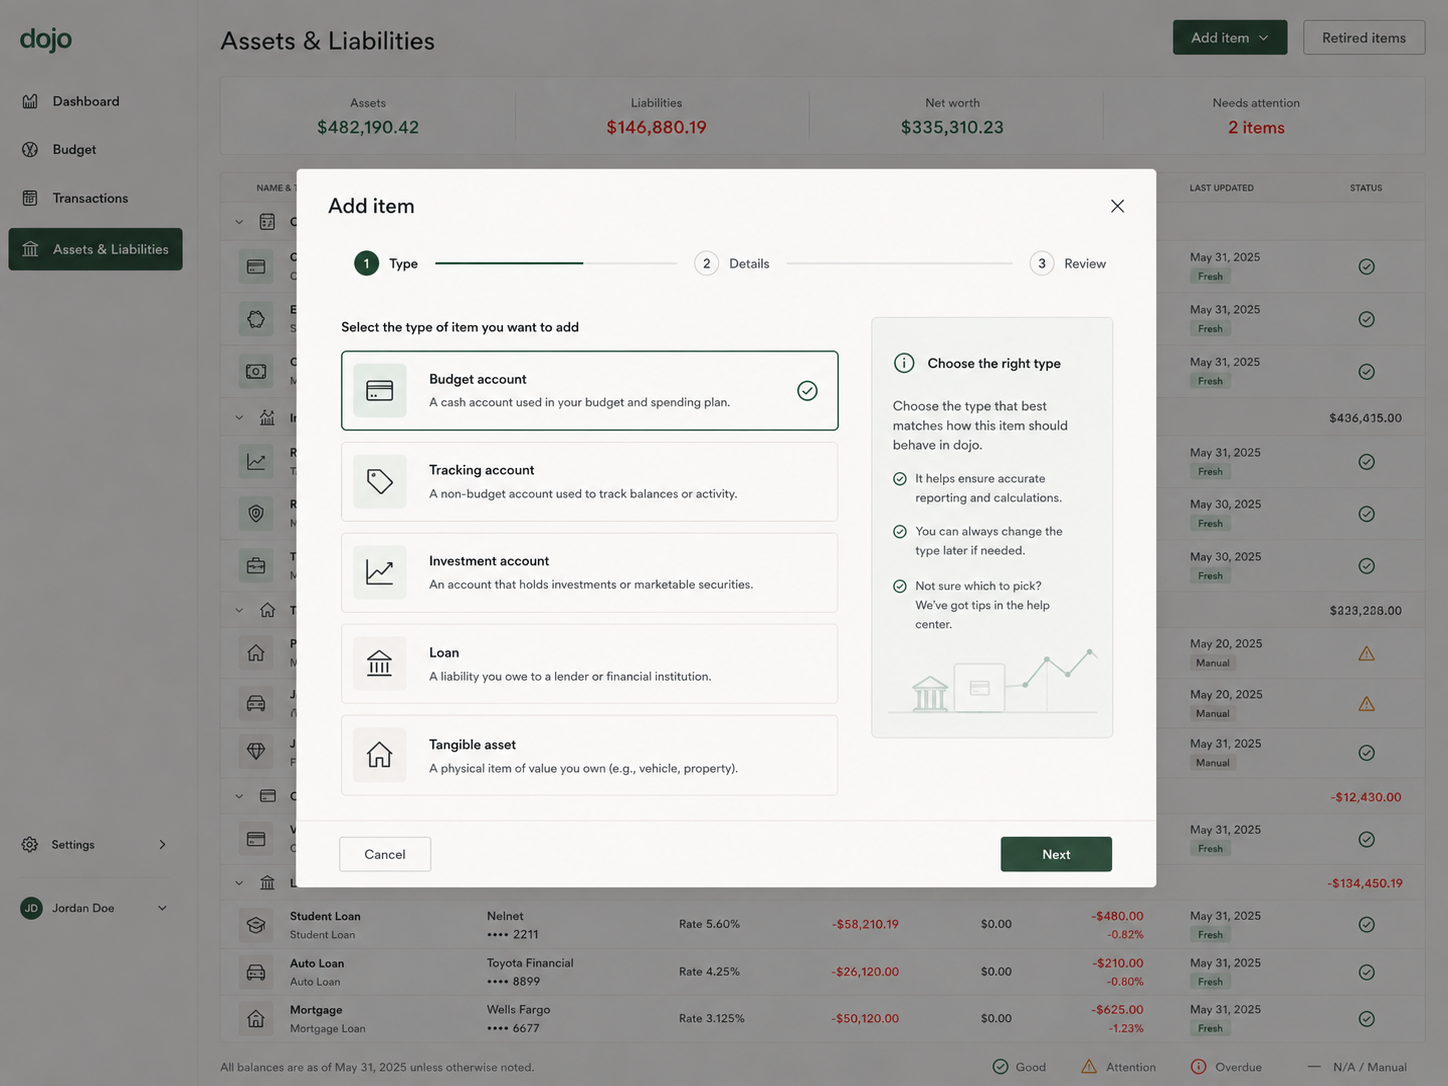
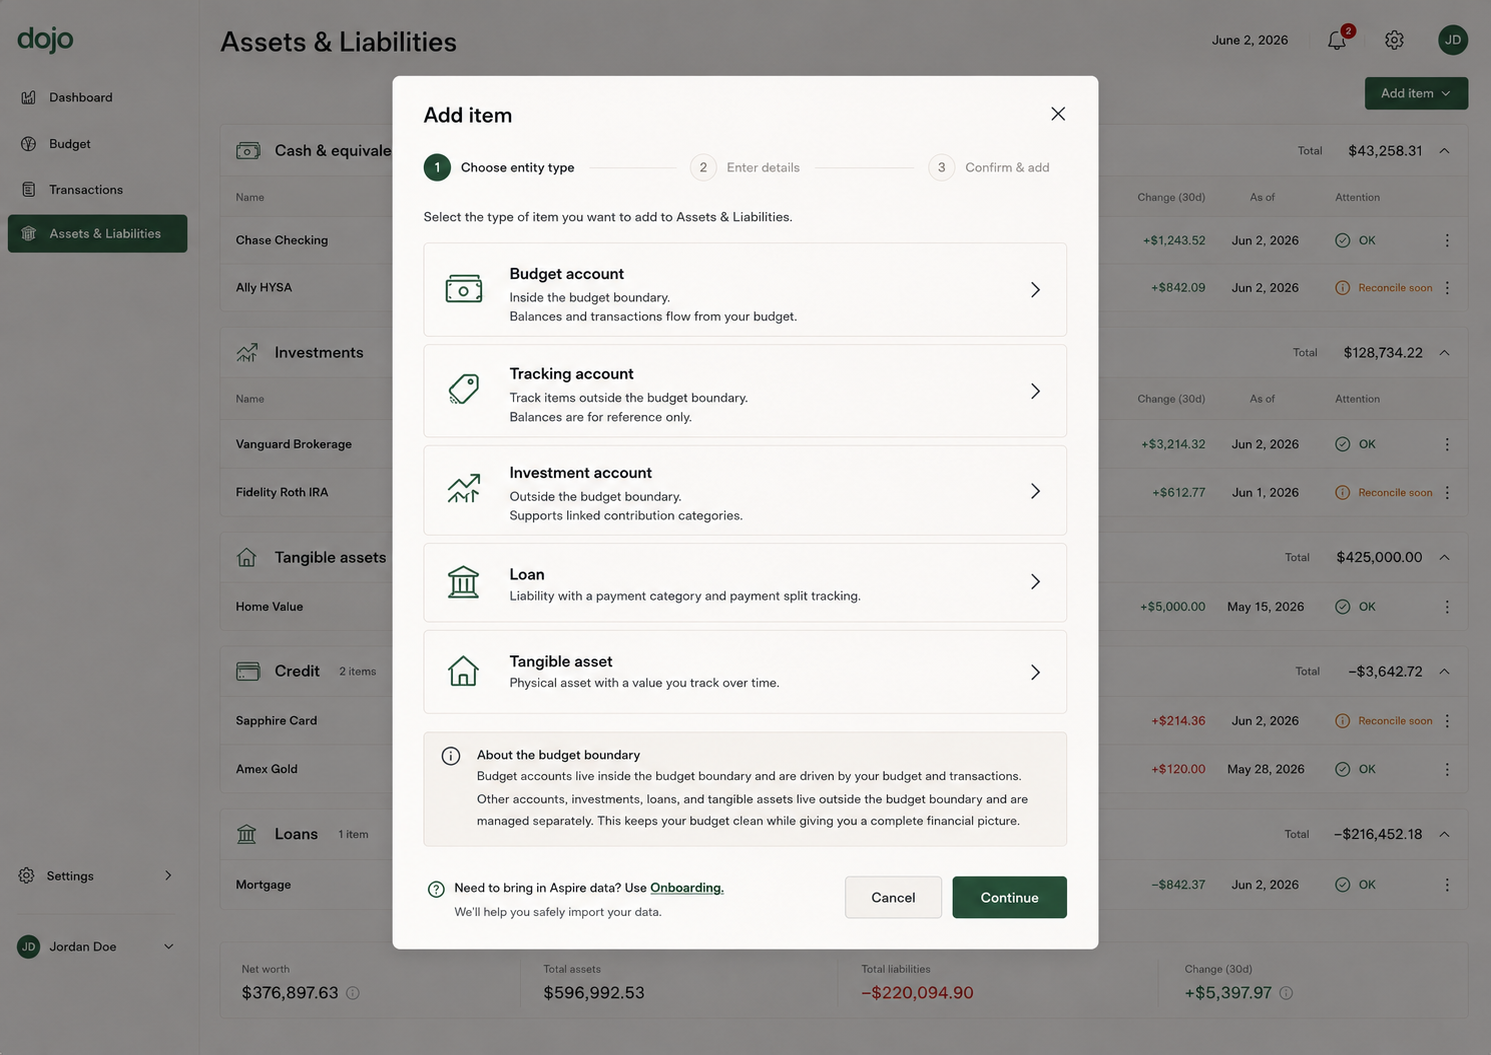
Update assets and liability mock screens

diff --git a/plans/2026-06-17-implement-product-spec/assets_liabilities_screens/README.md b/plans/2026-06-17-implement-product-spec/assets_liabilities_screens/README.md
@@ -1,24 +1,27 @@
-# dojo assets & liabilities screen mockups
+# Assets & Liabilities Screens — Updated
 
-This bundle contains the curated, spec-aligned Assets & Liabilities mockup screens generated for implementation reference.
+These mock screens reflect the revised account/entity semantics:
 
-## Contents
+- top-level metric strip appears directly below the page title
+- overview rows are grouped by account/entity type; type is implied by grouping
+- source-of-truth is not shown as an overview table column
+- Add item modal uses clearer onboarding language: "Need to bring in Aspire data? Use Onboarding."
+- account detail pages share consistent chrome:
+  - header with back link, title, badges, and right-aligned actions
+  - metric strip directly beneath the header
+  - wide primary activity table plus narrower right rail
+  - charts consistently placed in the lower content section
+  - large centered modals for contribution, payment, and upgrade/cutover flows
+- investment contribution semantics show two-leg account transfers plus derived budget effects from linked category behavior
+- loan payment flow uses the same centered modal pattern as other flows
 
-1. `01-assets-liabilities-default.png` — Default Assets & Liabilities page with compact shell, metric strip, and stacked full-width entity rows grouped into cash and equivalents, investments, tangible assets, credit, and loans.
-2. `02-add-item-type-wizard.png` — Add item wizard with the Type step active and supported entity types: budget account, tracking account, investment account, loan, and tangible asset.
-3. `03-budget-account-detail.png` — Budget account detail page for Checking with actual balance, pending amount, 30-day change, reconciliation freshness, balance history, filtered transaction ledger, record history, and edit configuration.
-4. `04-tracking-account-detail.png` — Tracking account detail page for External Savings with current balance, value history, snapshot history, record history, and edit configuration.
-5. `05-loan-detail.png` — Loan detail page for Student Loan with liability-focused metrics, repayment metadata, balance history, recent loan activity, reconciliation state, record history, and edit configuration.
-6. `06-account-reconciliation-review.png` — Checking reconciliation review screen showing last reconciled state, current records, source records, proposed result, reconciliation summary, changed/conflicting record review, inclusion toggles, reconciliation history, and Apply reconciliation action.
+## Files
 
-## Implementation notes
-
-- The page remains named `Assets & Liabilities`.
-- Entity rows should be stacked full-width row cards rather than a tile grid.
-- The primary page action is `Add item`.
-- The Add item wizard first selects the entity type and uses the supported names `budget account`, `tracking account`, `investment account`, `loan`, and `tangible asset`.
-- Budget account detail pages include a filtered transaction ledger.
-- Tracking account detail pages include snapshot history.
-- Pending and Settled are transaction settlement states. Reconciliation remains a separate audit workflow against an external source of truth.
-- Use `Changes since last reconciliation`, `Source records`, `Current records`, `Proposed changes`, `Conflict`, `Include`, `Exclude`, `Apply reconciliation`, `Reconciliation history`, and `Restore prior version` consistently in reconciliation surfaces.
-- Keep tables and ledgers dense, aligned, and virtualized or infinite-scrolling where applicable. Do not introduce manual pagination controls.
+1. `01-assets-liabilities-overview.png`
+2. `02-add-item-type-wizard.png`
+3. `03-budget-account-detail.png`
+4. `04-tracking-account-upgrade-cutover.png`
+5. `05-investment-account-detail.png`
+6. `06-investment-contribution-modal.png`
+7. `07-loan-detail-payment-modal.png`
+8. `08-reconciliation-review.png`
